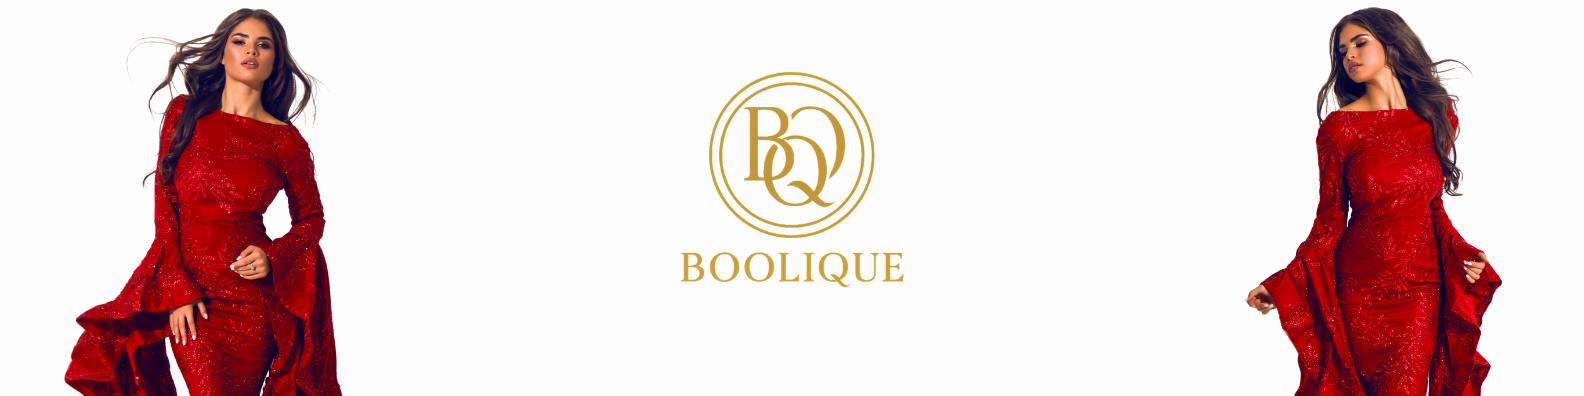
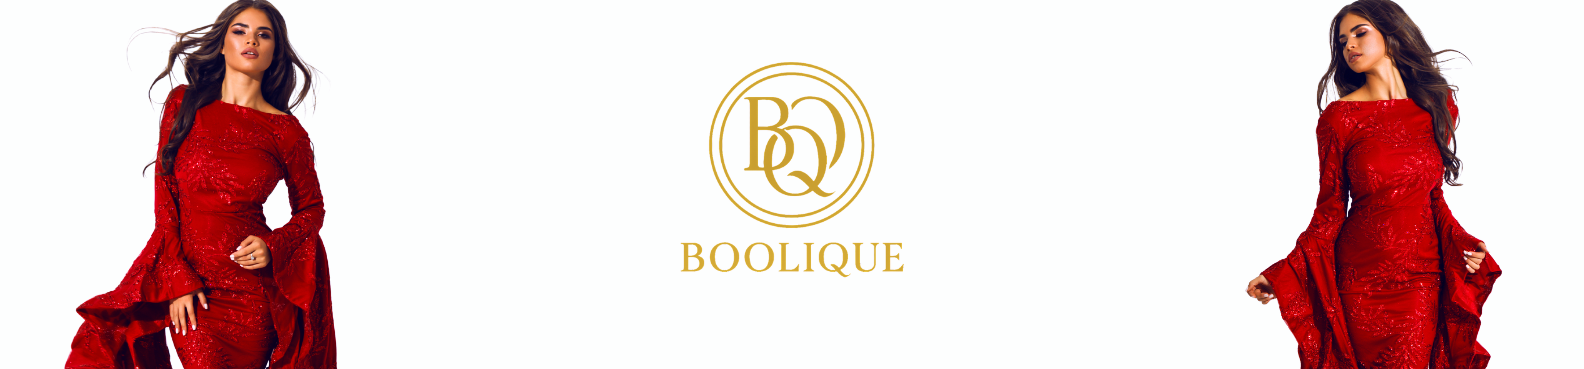
[fix] jumbo

diff --git a/pages/Homepage.jsx b/pages/Homepage.jsx
@@ -80,7 +80,7 @@ const Homepage = () => {
       <div className="jumbotron-container d-flex justify-content-center align-items-center">
         <img
           className="jumbotron-image img-fluid"
-          src="/jumbotron/groupimgjumbo.png"
+          src="/jumbotron/jumbotwo.png"
           alt="Abiti in evidenza"
         />
         <div className="jumbotron-text text-center">

diff --git a/src/index.css b/src/index.css
@@ -379,7 +379,7 @@ label.form-label {
 
 
 .jumbotron-container {
-  margin-top: 11vh;
+  margin-top: 8vh;
   position: relative;
   max-height: 300px;
   width: 100%;
